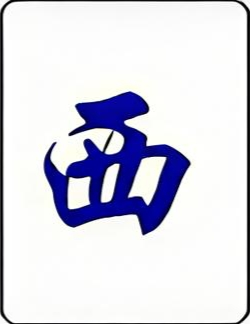
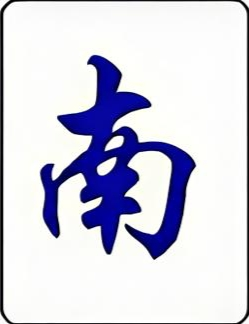
Fix mahjong turn flow and unify latest UI updates

diff --git a/tests/bot-discard-state-regression.spec.ts b/tests/bot-discard-state-regression.spec.ts
@@ -238,6 +238,47 @@ try {
   anyManager.games.delete(stuckGame.gameId);
 }
 
+const stalePassBot = makePlayer('AI-stale-pass-bot', 13);
+stalePassBot.name = 'AI-阿水';
+const skippedPlayer = makePlayer('skip-target', 13);
+skippedPlayer.name = 'AI-老赵';
+const stalePassGame = makeGame([makePlayer('discarder-stale', 13), skippedPlayer, stalePassBot, makePlayer('filler-stale', 13)]);
+stalePassGame.currentPlayerIndex = 1;
+stalePassGame.drawnThisTurn = false;
+stalePassGame.wall = [tile(TileSuit.DOTS, 9, 'stale-draw-1')];
+stalePassGame.pendingActions = [{
+  playerId: stalePassBot.id,
+  availableActions: [ActionType.PENG, ActionType.KONG, ActionType.PASS],
+  tile: tile(TileSuit.DOTS, 6, 'stale-discard-6'),
+  expiresAt: Date.now() + 60000,
+}];
+anyManager.games.set(stalePassGame.gameId, stalePassGame);
+const originalPersistGame4 = anyManager.persistGame;
+const originalBroadcastGameState4 = anyManager.broadcastGameState;
+const originalScheduleBotDiscard4 = anyManager.scheduleBotDiscard;
+try {
+  anyManager.persistGame = async () => {};
+  anyManager.broadcastGameState = () => {};
+  anyManager.scheduleBotDiscard = () => {};
+  await anyManager.handleBotPendingActions(stalePassGame.gameId);
+  ok(
+    'stale bot priority pass does not skip the newly advanced player turn',
+    stalePassGame.currentPlayerIndex === 1,
+    `current=${stalePassGame.currentPlayerIndex}`
+  );
+  ok(
+    'newly advanced player still retains draw opportunity after stale bot priority pass',
+    anyManager.canPlayerDrawOnCurrentTurn(stalePassGame, skippedPlayer) === true,
+    `drawn=${stalePassGame.drawnThisTurn}, wall=${stalePassGame.wall.length}, concealed=${skippedPlayer.hand.concealedTiles.length}`
+  );
+} finally {
+  anyManager.persistGame = originalPersistGame4;
+  anyManager.broadcastGameState = originalBroadcastGameState4;
+  anyManager.scheduleBotDiscard = originalScheduleBotDiscard4;
+  anyManager.clearPendingActionTimer(stalePassGame.gameId);
+  anyManager.games.delete(stalePassGame.gameId);
+}
+
 const aiAk = makePlayer('ai-ak', 13);
 aiAk.name = 'AI-AK';
 aiAk.hand.concealedTiles = [

diff --git a/server/utils/gameManager.ts b/server/utils/gameManager.ts
@@ -127,6 +127,12 @@ class GameManager {
     return this.canPlayerDrawOnCurrentTurn(game, player);
   }
 
+  private shouldAdvanceTurnAfterPass(game: GameState): boolean {
+    const currentPlayer = game.players[game.currentPlayerIndex];
+    if (!currentPlayer || currentPlayer.status !== PlayerStatus.PLAYING) return false;
+    return !this.isConcealedDiscardState(currentPlayer) && !this.canPlayerDrawOnCurrentTurn(game, currentPlayer);
+  }
+
   private shouldRetainCurrentPlayerChowPending(game: GameState, pendingAction: PendingAction): boolean {
     const currentPlayer = game.players[game.currentPlayerIndex];
     if (!currentPlayer || pendingAction.playerId !== currentPlayer.id) return false;
@@ -976,7 +982,7 @@ class GameManager {
         if (claimingPlayer && this.isPlayerBotControlled(claimingPlayer)) {
           this.scheduleBotDiscard(gameId, claimingPlayer.id);
         }
-      } else if (game.pendingActions.length === 0) {
+      } else if (game.pendingActions.length === 0 && this.shouldAdvanceTurnAfterPass(game)) {
         // 所有 bot 都 PASS 且没有人类 pending 残留时，必须继续推进回合。
         // 否则会停在弃牌者身上，出现 "Skipped: pending cleared but turn not advanced" 卡死。
         await this.moveToNextPlayer(game);
@@ -2185,13 +2191,7 @@ class GameManager {
       }
       if (action === ActionType.HU && game.phase === GamePhase.PLAYING) {
         await this.moveToNextPlayer(game);
-      } else if (
-        action === ActionType.PASS &&
-        currentP &&
-        currentP.status === PlayerStatus.PLAYING &&
-        !this.isConcealedDiscardState(currentP) &&
-        !this.canPlayerDrawOnCurrentTurn(game, currentP)
-      ) {
+      } else if (action === ActionType.PASS && this.shouldAdvanceTurnAfterPass(game)) {
         await this.moveToNextPlayer(game);
       } else {
         this.schedulePendingActionTimeout(gameId);

diff --git a/app/components/PlayerOtherArea.vue b/app/components/PlayerOtherArea.vue
@@ -224,7 +224,6 @@ function getClaimMarkerStyle(meld: Meld): Record<string, string> {
   if (meld.sourcePosition === undefined) return {}
   return {
     '--claim-source-color': colors.value[meld.sourcePosition] || '#757575',
-    '--claim-arrow-rotation': `${getClaimArrowRotation(meld.sourcePosition)}deg`,
   }
 }
 </script>
@@ -410,15 +409,15 @@ function getClaimMarkerStyle(meld: Meld): Record<string, string> {
 .player-other :deep(.claimed-tile)::after {
   content: '';
   position: absolute;
-  top: -4px;
+  top: -6px;
   left: 50%;
-  transform: translateX(-50%) rotate(var(--claim-arrow-rotation, 0deg));
-  width: 0;
-  height: 0;
-  border-left: 10px solid transparent;
-  border-right: 10px solid transparent;
-  border-top: 20px solid var(--claim-source-color, rgba(255, 255, 255, 0.95));
-  filter: drop-shadow(0 0 3px rgba(0, 0, 0, 0.42));
+  transform: translateX(-50%);
+  width: 10px;
+  height: 10px;
+  border-radius: 50%;
+  background: var(--claim-source-color, rgba(255,255,255,0.95));
+  border: 2px solid rgba(255,255,255,0.92);
+  box-shadow: 0 0 0 1px rgba(0,0,0,0.28), 0 1px 4px rgba(0,0,0,0.42);
   z-index: 4;
 }
 
@@ -454,6 +453,13 @@ function getClaimMarkerStyle(meld: Meld): Record<string, string> {
   .player-other :deep(.tile--small) {
     width: 18px;
     height: 26px;
+  }
+
+  .player-other :deep(.claimed-tile)::after {
+    top: -5px;
+    width: 8px;
+    height: 8px;
+    border-width: 1.5px;
   }
 }
 </style>

diff --git a/app/components/PlayerSelfArea.vue b/app/components/PlayerSelfArea.vue
@@ -136,7 +136,6 @@ function getClaimMarkerStyle(meld: Meld): Record<string, string> {
   if (meld.sourcePosition === undefined) return {}
   return {
     '--claim-source-color': colors.value[meld.sourcePosition] || '#757575',
-    '--claim-arrow-rotation': `${getClaimArrowRotation(meld.sourcePosition)}deg`,
   }
 }
 
@@ -341,15 +340,15 @@ const onPointerCancel = () => {
 :deep(.claimed-tile)::after {
   content: '';
   position: absolute;
-  top: -4px;
+  top: -6px;
   left: 50%;
-  transform: translateX(-50%) rotate(var(--claim-arrow-rotation, 0deg));
-  width: 0;
-  height: 0;
-  border-left: 10px solid transparent;
-  border-right: 10px solid transparent;
-  border-top: 20px solid var(--claim-source-color, rgba(255,255,255,0.95));
-  filter: drop-shadow(0 0 3px rgba(0,0,0,0.42));
+  transform: translateX(-50%);
+  width: 10px;
+  height: 10px;
+  border-radius: 50%;
+  background: var(--claim-source-color, rgba(255,255,255,0.95));
+  border: 2px solid rgba(255,255,255,0.92);
+  box-shadow: 0 0 0 1px rgba(0,0,0,0.28), 0 1px 4px rgba(0,0,0,0.42);
   z-index: 4;
 }
 
@@ -368,5 +367,14 @@ const onPointerCancel = () => {
   font-size: 0.7rem;
   color: #ffb74d;
   margin-left: 4px;
+}
+
+@media (max-width: 900px) and (orientation: landscape) {
+  :deep(.claimed-tile)::after {
+    top: -5px;
+    width: 8px;
+    height: 8px;
+    border-width: 1.5px;
+  }
 }
 </style>

diff --git a/app/composables/useVoiceTile.ts b/app/composables/useVoiceTile.ts
@@ -138,7 +138,7 @@ function resolveTileKey(suit: string, value: number): string {
     hua: 'hua',
     flower: 'hua',
   }
-  const windMap: Record<number, string> = { 1: 'east', 2: 'south', 3: 'west', 4: 'north' }
+  const windMap: Record<number, string> = { 1: 'east', 2: 'west', 3: 'south', 4: 'north' }
   const jianMap: Record<number, string> = { 1: 'zhong', 2: 'fa', 3: 'bai' }
   const prefix = suitMap[normalizedSuit] || normalizedSuit
 

diff --git a/app/pages/create-room.vue b/app/pages/create-room.vue
@@ -149,7 +149,7 @@ const userName = useCookie('user_name')
 const router = useRouter()
 const isCreatingGame = ref(false)
 const activeHelp = ref<string | null>(null)
-const showAISelection = ref(true)
+const showAISelection = ref(false)
 
 const toggleHelp = (key: string) => {
   activeHelp.value = activeHelp.value === key ? null : key

diff --git a/app/pages/index.vue b/app/pages/index.vue
@@ -268,7 +268,7 @@ const createParams = reactive({
 })
 
 // AI玩家选择
-const showAISelection = ref(true)
+const showAISelection = ref(false)
 const allAIBots = [
   { id: 'AI-小胖', name: 'AI-小胖', desc: '稳健型' },
   { id: 'AI-老赵', name: 'AI-老赵', desc: '进攻型' },
